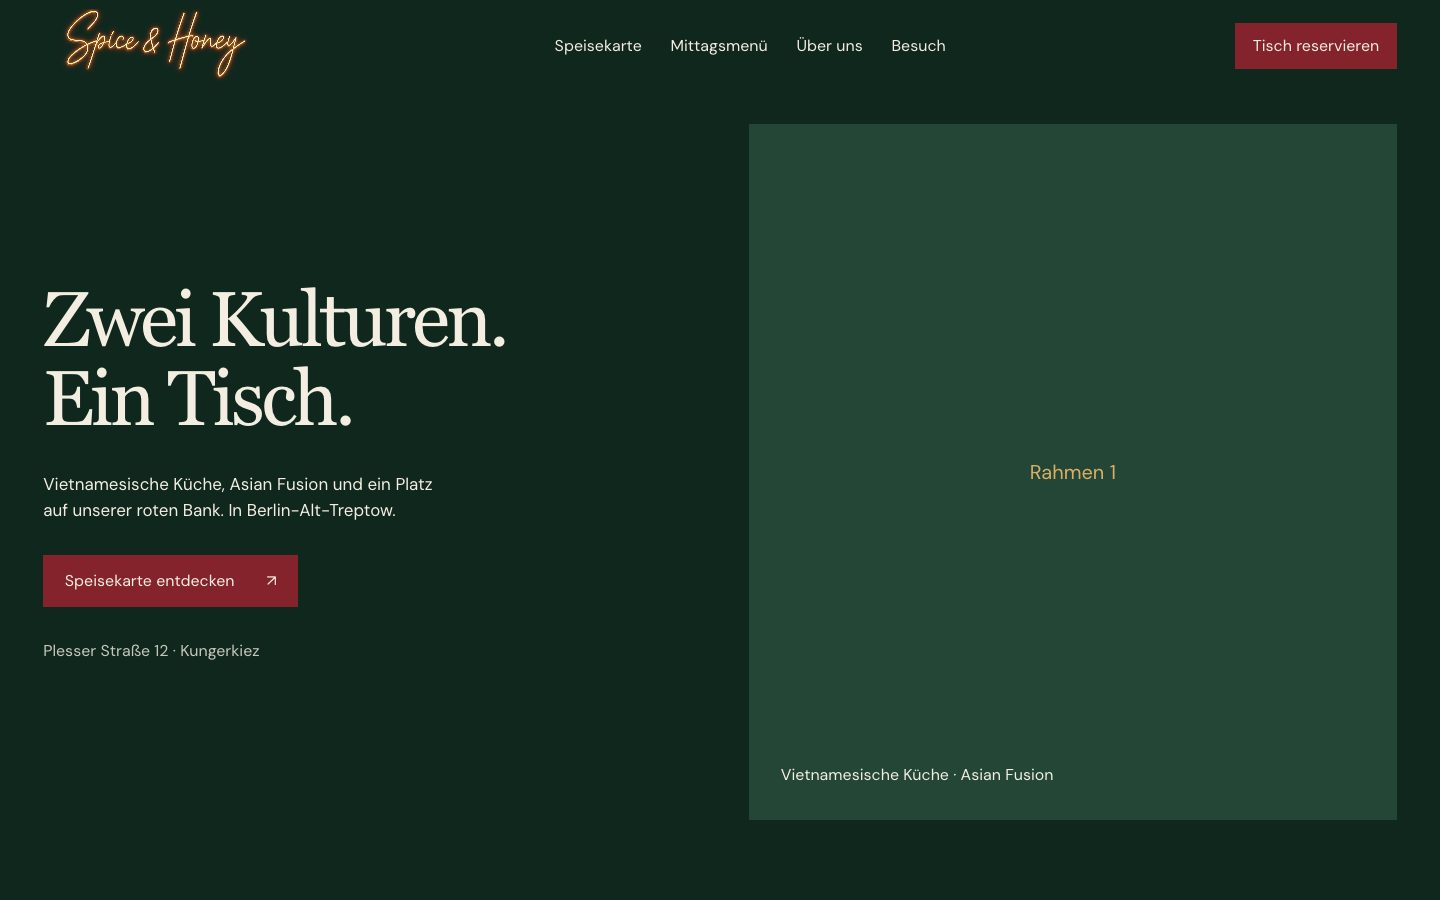
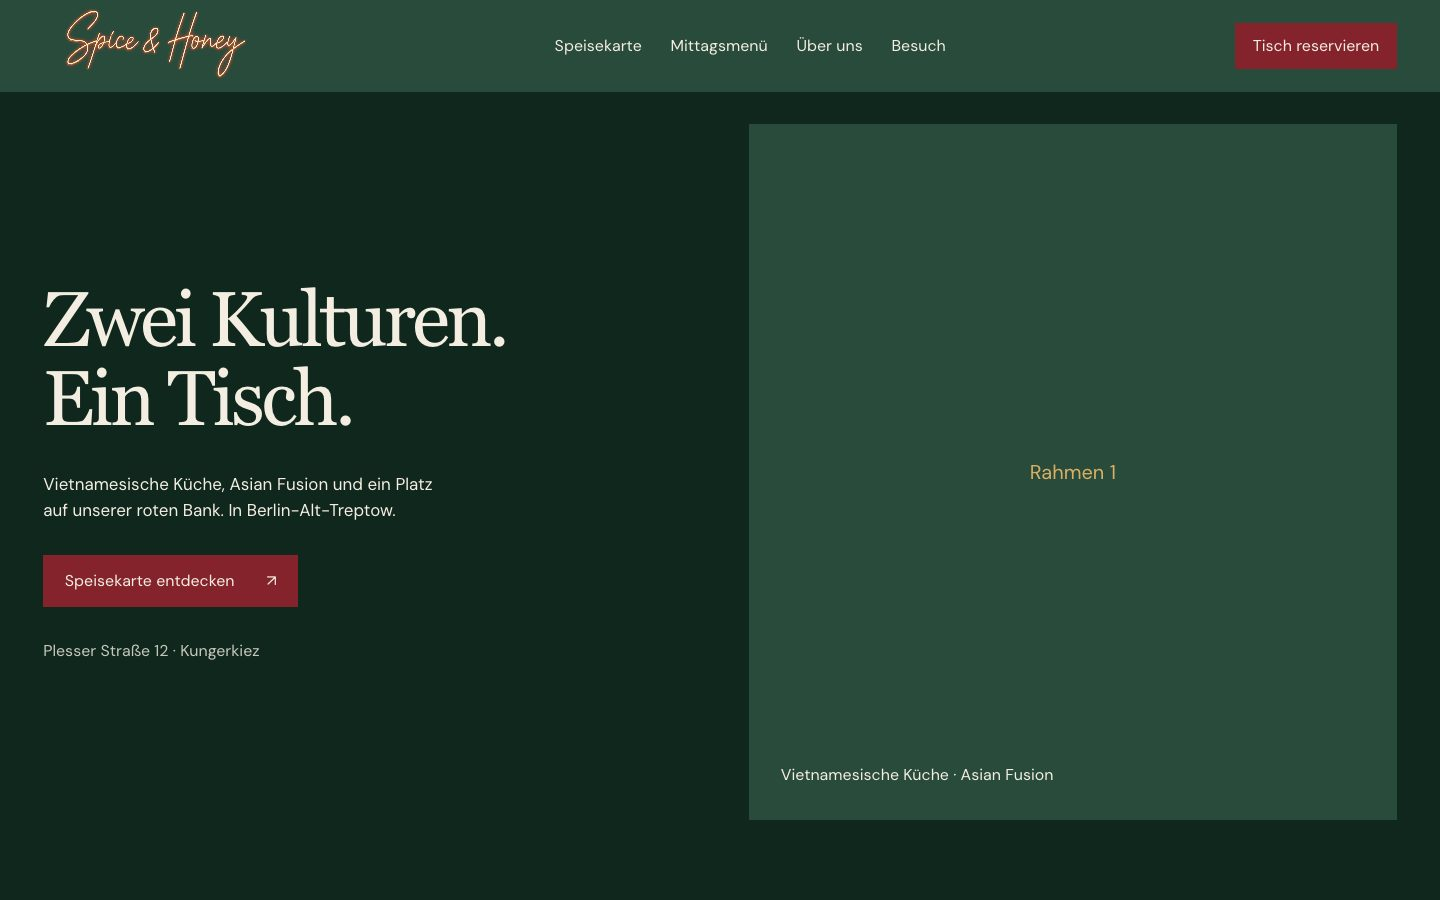
Unify two green tones and distinguish the sticky navigation

Changed region(s): [[0.0, 0.0, 1.0, 0.1244]]

diff --git a/styles.css b/styles.css
@@ -7,8 +7,8 @@
 }
 :root {
   --bg: #10271d;
-  --surface: #19372a;
-  --media: #234637;
+  --surface: #294b3b;
+  --media: var(--surface);
   --ink: #f4ede1;
   --muted: #c6c8bb;
   --accent: #d9ae65;
@@ -62,7 +62,7 @@ a:focus-visible, button:focus-visible, summary:focus-visible { outline: 3px soli
 .sr-only { position: absolute; width: 1px; height: 1px; overflow: hidden; clip-path: inset(50%); white-space: nowrap; }
 .skip-link { position: fixed; left: 1rem; top: -100px; z-index: 20; background: var(--ink); color: var(--bg); padding: 1rem; }
 .skip-link:focus { top: 1rem; }
-.site-header { position: sticky; top: 0; z-index: 10; background: var(--bg); display: flex; align-items: center; justify-content: space-between; gap: 2rem; padding: .5rem var(--margin); min-height: 92px; }
+.site-header { position: sticky; top: 0; z-index: 10; background: var(--surface); display: flex; align-items: center; justify-content: space-between; gap: 2rem; padding: .5rem var(--margin); min-height: 92px; }
 .wordmark { display: block; flex: 0 0 auto; width: 222px; height: 74px; overflow: hidden; }
 .wordmark img { width: 100%; height: 100%; object-fit: cover; object-position: center; mix-blend-mode: lighten; }
 .site-header nav { display: flex; gap: 1.8rem; }

diff --git a/docs/qa.md b/docs/qa.md
@@ -139,3 +139,11 @@ Der große gesetzte Schriftzug wurde durch dieselbe originale Logo-Datei wie im 
 - Browser-Snapshot bestätigt den sichtbaren Handle und das exakte Linkziel. Footer-Screenshot aktualisiert. Externes Profil war im Web-Lesewerkzeug nicht abrufbar; Grundlage ist die direkte Betreiberbestätigung.
 - Kopierfertiger Profilentwurf mit 127 Zeichen langer Bio, Anzeigename, Tebi-/Wolt-/TikTok-Links, Highlights und drei angepinnten Beiträgen in docs/instagram-profil.md erstellt. Nicht im Instagram-Konto veröffentlicht.
 - Build, Quell-Lint und git diff --check erfolgreich. Inspector: 0 FAIL / 0 WARN in 1440, 768 und 390 Pixeln mit den bestehenden drei begründeten Ausnahmen. Footer-Screenshots der drei Größen angesehen; neuer Handle passt ohne Überlauf.
+
+
+## Zwei grüne Flächenfarben
+
+- Grundgrün #10271D beibehalten; zweiter Grünton #294B3B für feste Kopfzeile und Inhaltsflächen. Medienflächen referenzieren denselben Token, sodass kein dritter Grünton hinzugefügt wird.
+- Creme auf hellerem Grün: 8,34:1; Gold: 4,71:1; sekundäre Schrift: 5,72:1. Rot und goldene Auswahlzustände unverändert.
+- Aktuelle Vorschau neu geladen, Header und Bildrahmen angesehen. Mobiles Menü in der schmalen Browseransicht geöffnet, Über uns ausgewählt und korrekt geschlossen; neue Farbfläche bleibt durchgängig. Header-Screenshot aktualisiert.
+- Build, Quell-Lint und git diff --check erfolgreich. Inspector bei 1440×900, 768×1024 und 390×844: 0 FAIL / 0 WARN mit den bisherigen drei begründeten Ausnahmen. Alle Fold- und Seitenscreenshots angesehen: Navigation klar als hellere Fläche erkennbar, kein gemeldeter horizontaler Überlauf oder verdeckte Inhalte.

diff --git a/docs/design-review.md b/docs/design-review.md
@@ -174,3 +174,10 @@ Die sichtbaren Nummern sind ausdrücklich verlangte, vorläufige Produktionsmark
 ## Goldene Kategorieauswahl und rote Interaktion
 
 Die aktive Kategorie ist nun dauerhaft goldfarben mit dunkelgrüner Schrift. Nur nicht ausgewählte Kategorien und Speisen-/Getränkereiter reagieren bei Hover oder sichtbarem Tastaturfokus mit Bankrot und heller Schrift. Die Auswahl bleibt dadurch vom vorübergehenden Interaktionszustand unterscheidbar. Andere Website-Aktionen behalten ihre vorhandenen Farben.
+
+
+## Zwei Grüntöne und klar abgesetzte Navigation
+
+Auf Wunsch des Nutzers wird die grüne Palette auf zwei tatsächlich verwendete Töne vereinheitlicht: Grundfläche #10271D, helleres gedecktes Waldgrün #294B3B. Die feste Kopfzeile verwendet jetzt den helleren Ton und hebt sich als durchgehende Fläche vom Seitenhintergrund ab. Dieselbe Farbe verbindet Lunchpanel, Menüflächen und die vorläufigen Bildrahmen; der bisherige dritte Grünton entfällt.
+
+Rot #85232D und Gold #D9AE65 behalten ihre Rollen für Aktionen, Auswahl und Markennamen. Kein neuer Draw für diese gezielte Markenweiterentwicklung. Kontraste auf dem helleren Grün: Creme 8,34:1, Gold 4,71:1. Damit bleiben auch kleinere goldene Markennamen und die Rahmennummern lesbar. Die Original-Logodatei bleibt unverändert. Alle drei Bildschirmgrößen visuell geprüft; die vorhandenen Bildrahmen bleiben als bewusst leere Produktionsvorlage sichtbar.

diff --git a/README.md b/README.md
@@ -1,6 +1,6 @@
 # Spice & Honey Website
 
-Responsive Restaurantwebsite für **Spice & Honey**, Plesser Straße 12, Berlin-Alt-Treptow. Gestaltet aus dem bereitgestellten Concept Board: Waldgrün, goldene Markennamen, rubinrote Akzente und die rote Samtbank.
+Responsive Restaurantwebsite für **Spice & Honey**, Plesser Straße 12, Berlin-Alt-Treptow. Gestaltet aus dem bereitgestellten Concept Board: dunkles Waldgrün als Grundfläche, helleres gedecktes Grün für Navigation und Inhaltsflächen, goldene Markennamen und rubinrote Akzente passend zur Samtbank.
 
 ![Desktop-Vorschau](docs/preview-desktop.jpg)
 
